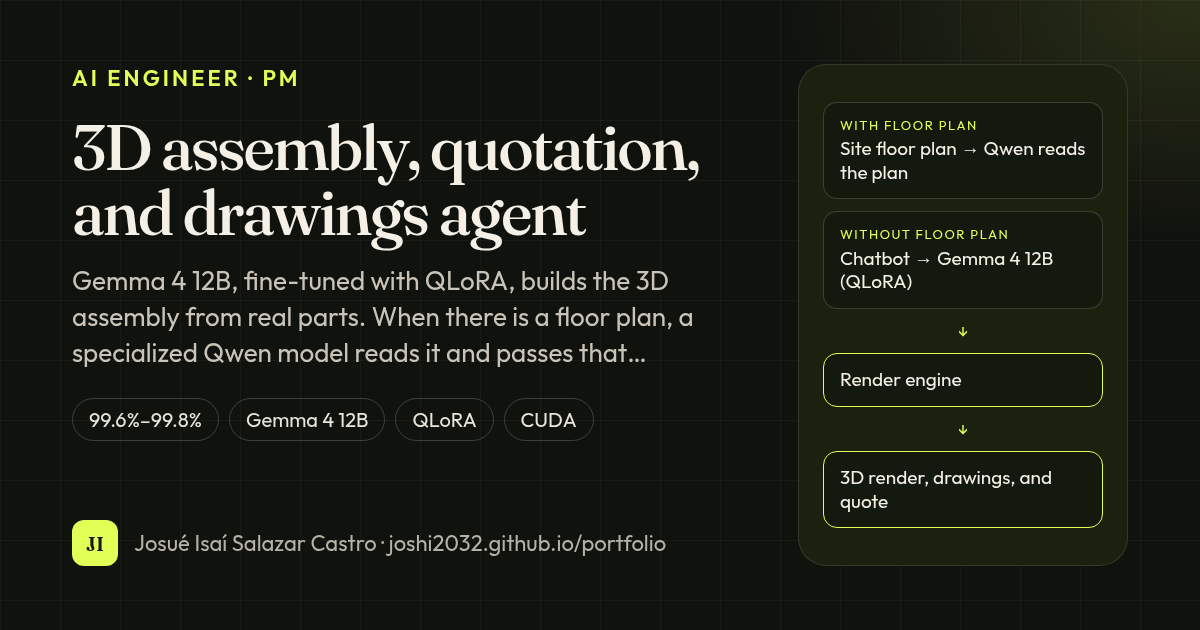
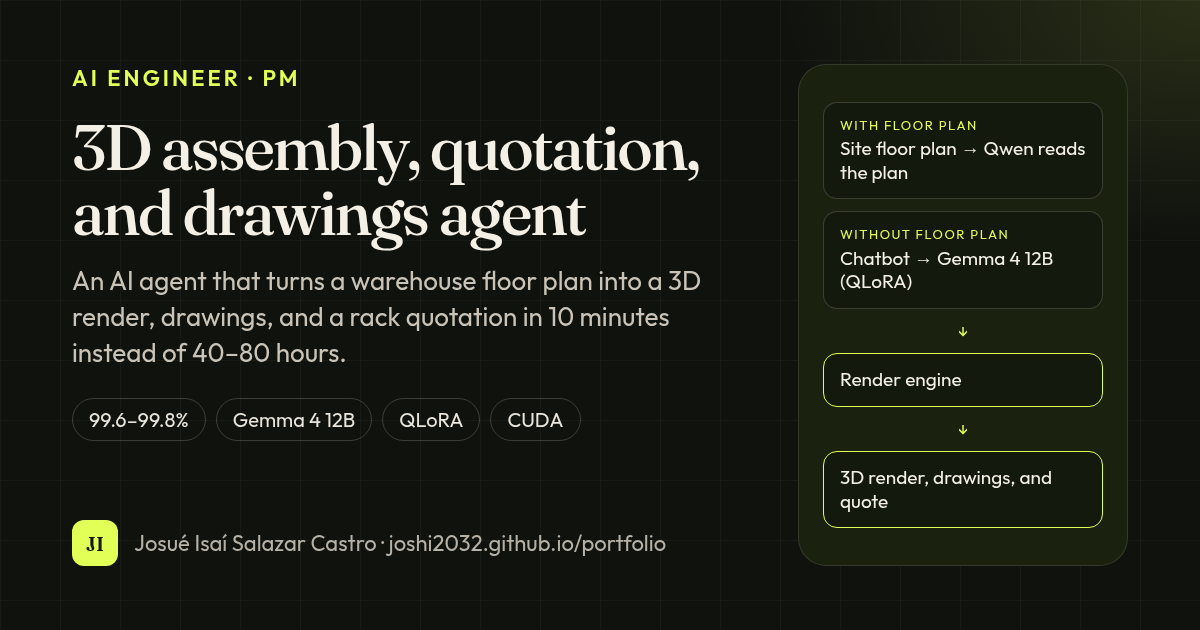
PM 3D assembly agent: approved copy, card stat, OG image

Changed region(s): [[0.0617, 0.4222, 0.5858, 0.573], [0.0925, 0.6333, 0.4933, 0.6937]]

diff --git a/src/logic/copy/en.js b/src/logic/copy/en.js
@@ -72,20 +72,19 @@ export const en = {
   },
   projects: {
     ensamble: {
-      card: { summary: "An agent with Gemma 4 12B (QLoRA) and Qwen that builds 3D racks from real parts and delivers the render, drawings, and quotation.", stat: "40–80 h → 10 min", label: "to prepare the render, drawings, and quotation" },
+      card: { summary: "An AI agent that turns a warehouse floor plan into a 3D render, drawings, and a rack quotation in 10 minutes instead of 40–80 hours.", stat: "99.6–99.8%", label: "less turnaround time" },
       plate: "Real parts, drawing, and quote",
       plateItems: ["Gemma 4 12B", "Qwen", "QLoRA · CUDA"],
       client: "PM",
       meta: "AI Engineer · PM",
       when: "Aug 2025 – Present",
       title: "3D assembly, quotation, and drawings agent",
-      lede: "Gemma 4 12B, fine-tuned with QLoRA, builds the 3D assembly from real parts. When there is a floor plan, a specialized Qwen model reads it and passes that information to the engine so the assembly can continue. When there isn't, users interact with Gemma 4 12B through a chatbot that asks questions to build the configuration.",
+      lede: "An AI agent that turns a warehouse floor plan into a 3D render, drawings, and a rack quotation in 10 minutes instead of 40–80 hours.",
       points: [
-        "The fine-tuned model picks the layout that best uses the warehouse.",
-        "Qwen reads the floor plans of the site where the racks will be installed and passes that information to the engine to continue the assembly.",
-        "When no floor plan is available, users interact with Gemma 4 12B through a chatbot that gathers the information by asking questions to build the configuration.",
-        "A rendering engine produces the 3D render from dimensions, constraints, and installation conditions.",
-        "The delivery includes the 3D render, the drawings, and the estimated quotation.",
+        "Qwen, specialized in floor plans, reads the site plan and extracts its dimensions and constraints.",
+        "Gemma 4 12B, fine-tuned with QLoRA (CUDA), builds the assembly from real parts and picks the layout that makes the best use of the space; when there is no floor plan, a Gemma chatbot gathers the information by asking questions.",
+        "A rendering engine produces the 3D render, the drawing with the racks, and the estimated quotation.",
+        "Turnaround dropped from 40–80 working hours (1–2 weeks) to 10 minutes, a 99.6–99.8% time saving.",
       ],
       tags: ["Gemma 4 12B", "QLoRA", "CUDA", "Qwen"],
       flow: {
@@ -112,8 +111,6 @@ export const en = {
         stat: "40–80 h → 10 min",
         statNote: "to prepare the render, drawings, and quote",
       },
-      resultStat: "99.6%–99.8%",
-      result: "less time: from 40–80 working hours (1–2 weeks at 8 h/day) to 10 minutes.",
       alongside: {
         anchor: "ensamble-kanban",
         kicker: "In parallel, over the same period",

diff --git a/src/logic/copy/es.js b/src/logic/copy/es.js
@@ -72,20 +72,19 @@ export const es = {
   },
   projects: {
     ensamble: {
-      card: { summary: "Agente con Gemma 4 12B (QLoRA) y Qwen que arma racks en 3D con piezas reales y entrega render, planos y cotización.", stat: "40–80 h → 10 min", label: "para preparar render, planos y cotización" },
+      card: { summary: "Agente de IA que convierte el plano de una bodega en un render 3D, planos y cotización de racks en 10 min, en lugar de 40–80 h.", stat: "99.6–99.8%", label: "menos tiempo de respuesta" },
       plate: "Piezas reales, plano y cotización",
       plateItems: ["Gemma 4 12B", "Qwen", "QLoRA · CUDA"],
       client: "PM",
       meta: "IA Engineer · PM",
       when: "Ago 2025 – Presente",
       title: "Agente de ensamble 3D, cotización y planos",
-      lede: "Gemma 4 12B, ajustado con QLoRA, arma el ensamble 3D con piezas reales. Si hay plano, un Qwen especializado lo lee y pasa esa información al motor para continuar con el armado. Si no lo hay, se interactúa con Gemma 4 12B mediante un chatbot que hace preguntas para armar la configuración.",
+      lede: "Agente de IA que convierte el plano de una bodega en un render 3D, planos y cotización de racks en 10 min, en lugar de 40–80 h.",
       points: [
-        "El modelo ajustado elige la configuración que mejor aprovecha la bodega.",
-        "Qwen lee los planos del lugar donde se instalarán los racks y le pasa esa información al motor para proseguir con el armado.",
-        "Si no se cuenta con el plano, se interactúa con Gemma 4 12B mediante un chatbot que recopila la información a través de preguntas para armar la configuración.",
-        "Un motor de render produce el 3D a partir de dimensiones, restricciones y condiciones de montaje.",
-        "La entrega incluye el render 3D, los planos y la estimación de cotización.",
+        "Qwen, especializado en planos, lee el plano del sitio y extrae dimensiones y restricciones.",
+        "Gemma 4 12B, ajustado con QLoRA (CUDA), arma el ensamble con piezas reales y elige la configuración que mejor aprovecha el espacio; si no hay plano, un chatbot con Gemma recaba la información con preguntas.",
+        "Un motor de render genera el render 3D, el plano con los racks y la cotización estimada.",
+        "El tiempo de respuesta bajó de 40–80 h laborales (1–2 semanas) a 10 min: un ahorro del 99.6–99.8%.",
       ],
       tags: ["Gemma 4 12B", "QLoRA", "CUDA", "Qwen"],
       flow: {
@@ -112,8 +111,6 @@ export const es = {
         stat: "40–80 h → 10 min",
         statNote: "para preparar render, planos y cotización",
       },
-      resultStat: "99.6%–99.8%",
-      result: "menos tiempo: de 40–80 horas laborales (1–2 semanas, jornadas de 8 h) a 10 minutos.",
       alongside: {
         anchor: "ensamble-kanban",
         kicker: "En paralelo, en el mismo periodo",

diff --git a/src/components/Projects.jsx b/src/components/Projects.jsx
@@ -123,7 +123,7 @@ function ProjectFacts({ details }) {
               <span>{details.metric.label}</span>
             </p>
           ) : null}
-          <p className="delivery">{details.delivery}</p>
+          {details.delivery ? <p className="delivery">{details.delivery}</p> : null}
         </>
       )}
     </>
